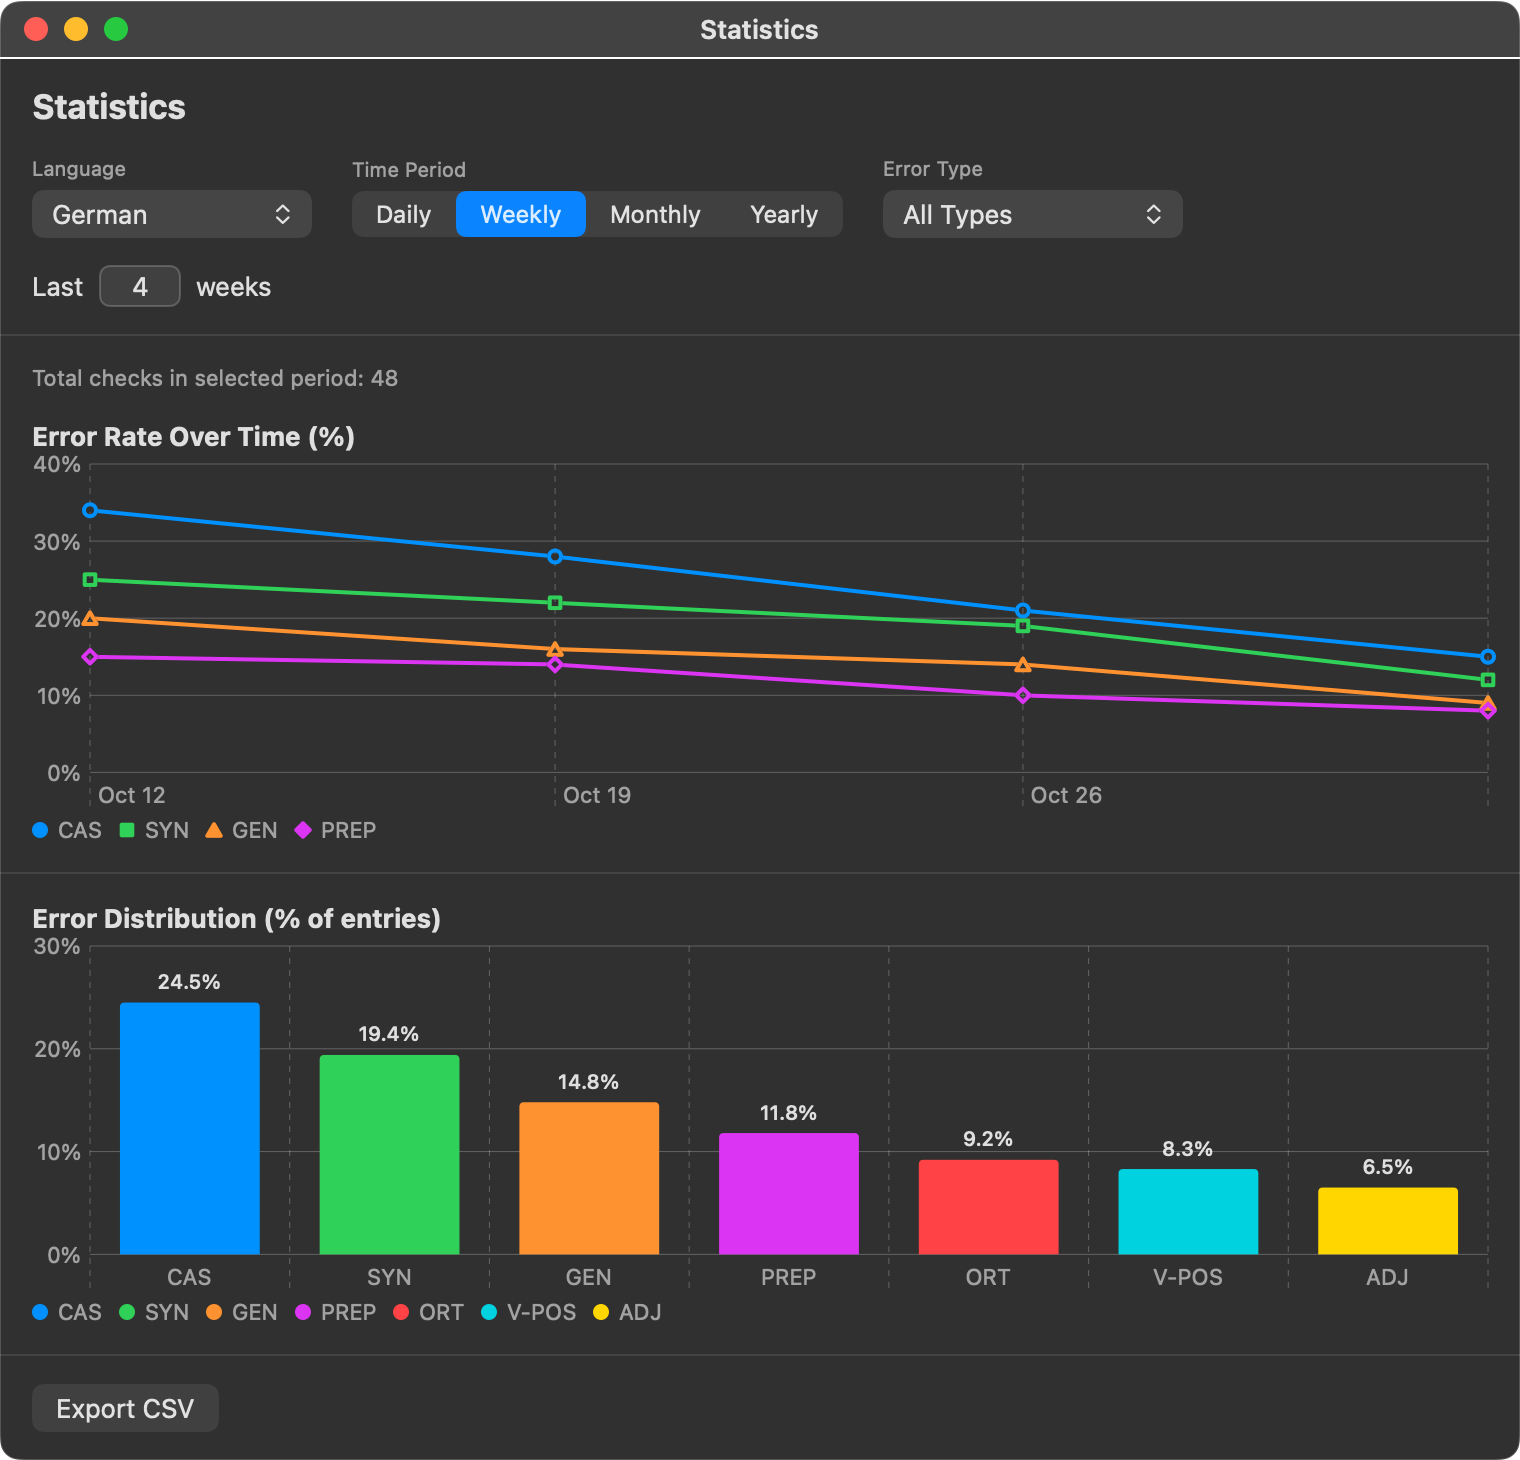
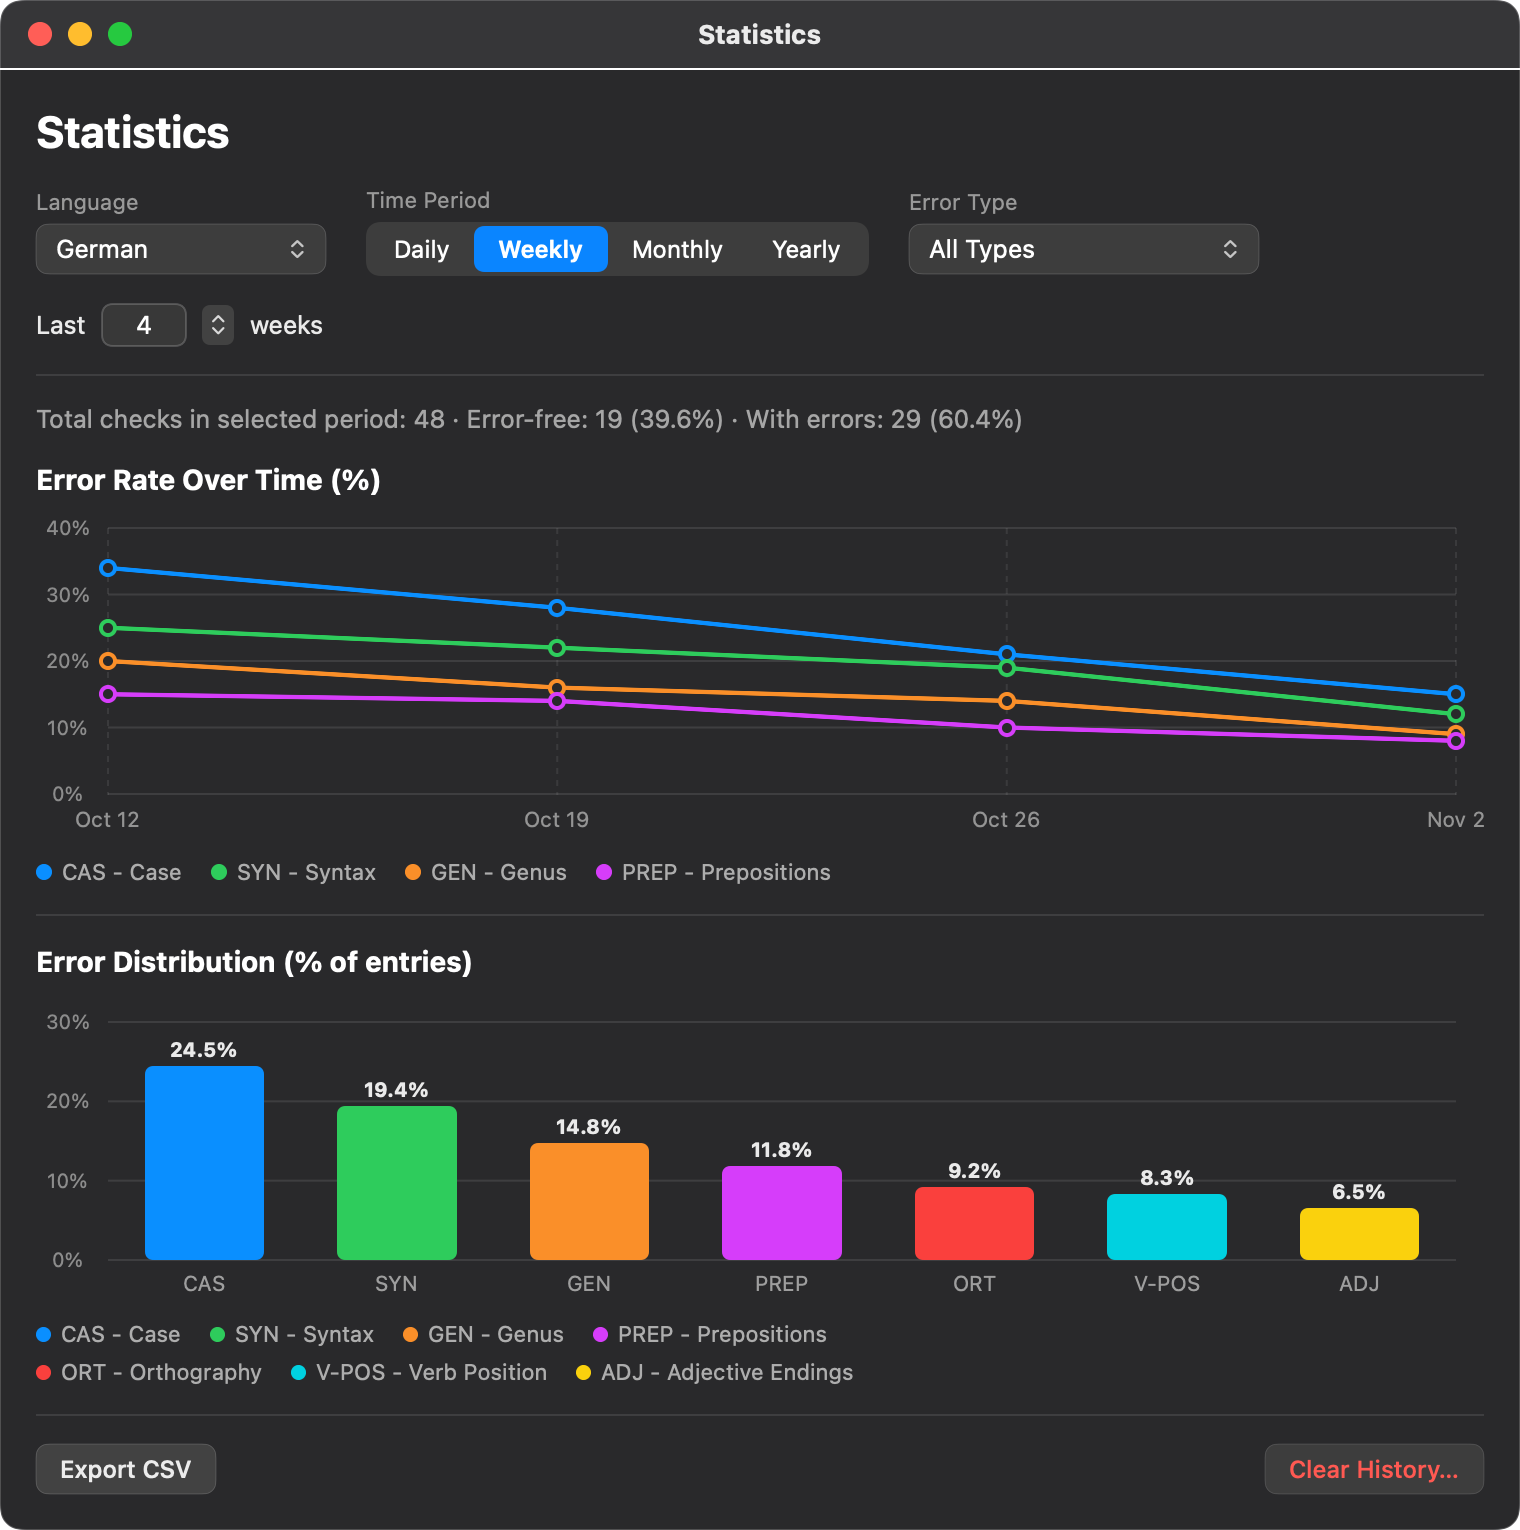
update readme

diff --git a/README.md b/README.md
@@ -1,66 +1,123 @@
 # GrammifyAI
 
-**Minimalist LLM Grammar Checker for macOS that works with any application and language.**
+[![Latest Release](https://img.shields.io/github/v/release/harentius/GrammifyAI?include_prereleases&label=release&color=blue)](https://github.com/harentius/GrammifyAI/releases)
+[![Downloads](https://img.shields.io/github/downloads/harentius/GrammifyAI/total?color=success)](https://github.com/harentius/GrammifyAI/releases)
+[![Platform](https://img.shields.io/badge/platform-macOS%2014.5%2B-lightgrey)](https://github.com/harentius/GrammifyAI/releases)
+[![License: MIT](https://img.shields.io/badge/license-MIT-green.svg)](LICENSE)
 
-Using GrammifyAI is as simple as selecting text and pressing a shortcut (`⌘ + U` or custom).
-This triggers a popup with improvement suggestions and automatically copies the corrected text to your clipboard.
+**Minimalist, native macOS menu bar grammar checker and writing assistant that works in any app, any language, and with any OpenAI-compatible or local LLM.**
 
-Thanks to the macOS Accessibility API, GrammifyAI works with text in any **web** or **native** application.
-By leveraging **LLM integration** (e.g., OpenAI or any OpenAI-compatible provider), it not only fixes grammar and typos but also improves your phrasing and helps you track recurring mistakes over time.
+Select text anywhere on macOS, press `⌘ + U`, review the word-level diff and categorized grammar mistakes in a floating popup, and press `↩` (Enter) to replace the text directly in your active app.
 
-<img width="500" alt="Suggestion Diff View" src="docs/images/suggestion.png" />
-<img width="295" alt="Settings Popover" src="docs/images/settings.png" />
+<p align="center">
+  <img width="800" alt="GrammifyAI Workflow Demo" src="docs/images/demo.gif" />
+</p>
 
-GrammifyAI utilizes your own LLM API key. There are no quotas or limits from the GrammifyAI side; usage depends entirely on your LLM API billing.
+GrammifyAI uses **your own LLM API key** (or a local model via **Ollama** / **LM Studio**). There are no subscriptions, quotas, or middleman servers—your text goes directly from your Mac to your chosen LLM endpoint.
+
+---
+
+## Why GrammifyAI?
+
+| Capability | GrammifyAI | Grammarly / SaaS Tools | ChatGPT / Web UI |
+| :--- | :--- | :--- | :--- |
+| **System-wide workflow** | `⌘ + U` → `↩` replaces text in-place | Browser extension / heavy desktop agent | Manual copy, switch window, paste |
+| **Visual word-level diff** | Color-coded additions & deletions before applying | Single-error underlines or blind rewrite | Plain text output without diff |
+| **Error category analytics** | Tracks recurring grammar blind spots over time + CSV export | Basic weekly email summaries | None |
+| **Multilingual & language learning** | Any language + dedicated **German** & **English** grammar categories | Primarily English-focused | Manual prompting required |
+| **Pricing & privacy** | **Free & Open Source** (BYOK or 100% offline with Ollama) | \$12–\$30/month subscription | \$20/month or cloud-only |
+
+---
 
 ## Features
 
-* **System-Wide Shortcut:** Trigger corrections anywhere with `⌘ + U` (or set your own shortcut in Settings).
-* **Visual Diff & Auto-Copy:** See exact word-level additions and deletions color-coded in a diff view alongside detected error category badges (hover to inspect specific fragments), with the corrected text automatically copied to your clipboard.
-* **Direct Replace in Source App:** Press `↩` (Enter) in the suggestion popup to immediately replace the selected text in the source application, or `⎋` (Escape) to dismiss.
-* **Floating Popup Near Selection:** Optionally open a compact, auto-sized suggestion popup right next to your selected text instead of a centered window.
-* **Writing Statistics & Error Classification:** Automatically detects the language of your text, categorizes mistakes (Syntax, Vocabulary, Prepositions, Idiomatics, Register, Orthography, plus language-specific categories for **German** and **English**), and charts your error trends over time with CSV export.
-* **OpenAI-Compatible API Support:** Defaults to OpenAI (`https://api.openai.com` with `gpt-4o-mini`), or point it to any OpenAI-compatible endpoint (e.g., OpenRouter, Groq, Ollama, LM Studio).
-* **Menu Bar Convenience:** Supports **Launch at Login** and built-in updates via **Check for Updates...**.
+* **System-Wide Shortcut:** Trigger corrections in any native or web app with `⌘ + U` (customizable in Settings).
+* **Word-Level Visual Diff & Error Badges:** Inspect exact additions (green) and deletions (red strikethrough) alongside classified error badges (hover any badge to see the exact `"original" → "corrected"` fragment).
+* **One-Key Direct Replace (`↩`):** Press `↩` (Enter) in the suggestion popup to immediately replace the selected text in the source application, or `⎋` (Escape) to dismiss. Suggestions are also automatically copied to your clipboard.
+* **Floating Popup Near Selection:** Optionally anchor a compact, auto-sized suggestion popup right next to your selected text.
+* **Writing Statistics & Error Classification:** Automatically detects the language of your text, classifies mistakes into universal and language-specific grammar categories, and charts your error rate trends over time.
+* **Any OpenAI-Compatible or Local LLM:** Defaults to OpenAI (`gpt-4o-mini`), or point it to **Ollama**, **LM Studio**, **Groq**, **OpenRouter**, or any OpenAI-compatible endpoint.
+* **Native Menu Bar App:** Built with SwiftUI, supports **Launch at Login**, and includes built-in updates via **Check for Updates...** (Sparkle).
 
-<img width="650" alt="Writing Statistics" src="docs/images/statistics.png" />
+<p align="center">
+  <img width="500" alt="Suggestion Diff View" src="docs/images/suggestion.png" />
+  &nbsp;&nbsp;
+  <img width="280" alt="Settings Popover" src="docs/images/settings.png" />
+</p>
+
+---
+
+## Writing Statistics & Language Learning Analytics
+
+Unlike tools that silently fix your typos without helping you improve, GrammifyAI records your mistake categories locally so you can spot and eliminate recurring grammar habits over time:
+
+* **Universal Categories:** `SYN` (Syntax), `VOC` (Vocabulary), `PREP` (Prepositions), `IDM` (Idiomatics), `REG` (Register), `ORT` (Orthography)
+* **German-Specific Categories:** `CAS` (Case: Dativ/Akkusativ/Genitiv), `GEN` (Genus: der/die/das), `V-POS` (Verb Position: V2 vs. subordinate clause), `ADJ` (Adjective Endings)
+* **English-Specific Categories:** `ART` (Articles: a/an/the), `TNS` (Tenses), `ASP` (Aspect: simple vs. progressive)
+
+Filter your error rates by language, time period (Daily, Weekly, Monthly, Yearly), or specific error type, and export your full correction history to **CSV** for custom review or flashcards.
+
+<p align="center">
+  <img width="720" alt="Writing Statistics Demo" src="docs/images/statistics-demo.gif" />
+</p>
+
+---
+
+## Supported LLM Providers
+
+You can use any OpenAI-compatible `/chat/completions` endpoint in **Settings**:
+
+| Provider | API URL | Example Model Name | Notes |
+| :--- | :--- | :--- | :--- |
+| **OpenAI** *(Default)* | `https://api.openai.com` | `gpt-4o-mini` | Fast, accurate, fractions of a cent per day |
+| **Ollama** *(Local / Offline)* | `http://localhost:11434/v1` | `llama3.1:8b` / `qwen2.5:14b` | 100% private & free on Apple Silicon |
+| **LM Studio** *(Local)* | `http://localhost:1234/v1` | `local-model` | Run any local GGUF/MLX model |
+| **Groq** | `https://api.groq.com/openai` | `llama-3.3-70b-versatile` | Near-instant inference |
+| **OpenRouter** | `https://openrouter.ai/api` | `anthropic/claude-3.5-haiku` | Access 100+ models with one key |
+
+---
 
 ## Installation
 
 > **Requirements:** macOS 14.5 (Sonoma) or later.
 
-1.  Download the latest [release](https://github.com/harentius/GrammifyAI/releases) and move it to your **Applications** folder.
-2.  Right-click the GrammifyAI app and select "Open" to bypass the initial security check. Grant permission to open it if prompted.
+1.  Download the latest [release](https://github.com/harentius/GrammifyAI/releases) and move **GrammifyAI.app** to your **Applications** folder.
+2.  Right-click the GrammifyAI app and select **Open** to bypass the initial Gatekeeper check. Grant permission to open it if prompted.
     * *Note:* If the app is blocked, go to **System Settings > Privacy & Security** and allow the app to open.
     <img width="500" alt="open-app" src="https://github.com/user-attachments/assets/2d495b93-0f91-4e36-8163-5bf2b295d43e" />  
-3.  Grant Accessibility permissions: On first launch, macOS will automatically prompt you to grant Accessibility access. Click **Open System Settings** in the prompt (or use the **Grant Permission** button in the menu bar popover) and toggle **GrammifyAI** on in **System Settings > Privacy & Security > Accessibility**.  
+3.  **Grant Accessibility permissions:** On first launch, macOS will automatically prompt you to grant Accessibility access. Click **Open System Settings** in the prompt (or use the **Grant Permission** button in the menu bar popover) and toggle **GrammifyAI** on in **System Settings > Privacy & Security > Accessibility**.  
     <img width="500" alt="accessibility" src="https://github.com/user-attachments/assets/ca8d366c-7685-4da6-a108-4b805bc66e77" />
 4.  Open **Settings** in the GrammifyAI menu bar popover:
     * Enter your **API key**.
     * *(Optional)* Customize the **API URL** (default: `https://api.openai.com`), **Model name** (default: `gpt-4o-mini`), keyboard shortcut, **Launch at Login**, or **Open suggestion near selected text**.
 
 ## Updating the App
+
 1.  Click the GrammifyAI menu bar icon and select **Check for Updates...** to install updates in-app, or download the latest release manually from GitHub.
-2.  After installing a new version, GrammifyAI will automatically reset the outdated Accessibility permission entry and prompt you to toggle **GrammifyAI** back on in **System Settings > Privacy & Security > Accessibility** (no need to manually remove and re-add the app).
-3.  If installing manually outside of in-app updates, you may need to repeat the "Right-click Open" step from the installation process.
+2.  GrammifyAI signs releases with a persistent certificate so your macOS Accessibility permission is preserved across updates. If macOS ever requires re-authorization after a manual install, GrammifyAI automatically resets the stale entry and prompts you to toggle it back on.
+
+---
 
 ## Usage
-1.  Select the text you want to enhance.
+
+1.  Select the text you want to improve in any application.
 2.  Press `⌘ + U` (or your custom shortcut).
-3.  Review the suggested correction in the diff view.
-4.  Press `↩` (Enter) to replace the selected text directly in the source app (or press `⎋` to dismiss — the suggestion is also automatically copied to your clipboard for manual `⌘ + V` pasting).
+3.  Review the suggested correction and error category badges in the diff view.
+4.  Press `↩` (Enter) to replace the selected text directly in the source app, or press `⎋` (Escape) to dismiss (the suggestion is also copied to your clipboard automatically for manual `⌘ + V` pasting).
 5.  *(Optional)* Open **Statistics** from the menu bar to track your writing accuracy and most common error categories across languages over time, or export your history to CSV.
 
-## Known Successful Use Cases
-I use GrammifyAI daily in *Slack*, *Chrome*, *Notion*, *Messenger*, and standard web forms.
+### Known Successful Use Cases
+Used daily in *Slack*, *Chrome*, *Notion*, *Messenger*, *Mail*, *Notes*, and standard web forms.
 
-## Known Limitations
-* Does not currently work in *Google Docs*.
+### Known Limitations
+* Does not currently work in *Google Docs* (Google Docs uses a custom canvas renderer instead of native macOS Accessibility text attributes).
 * Since it uses an LLM, suggestions for sensitive or nuanced topics may occasionally alter the original meaning.
 
-## Demo
+### Screen Recording
 
 https://github.com/user-attachments/assets/0ce6d724-68ee-4fa7-a468-54584888e801
+
+---
 
 ## Building from Source
 
@@ -69,6 +126,8 @@ Open `GrammifyAI.xcodeproj` in Xcode and press `⌘ + R`, or build from the term
 ```bash
 xcodebuild -scheme GrammifyAI -configuration Release build
 ```
+
+---
 
 ## Appendix
 
